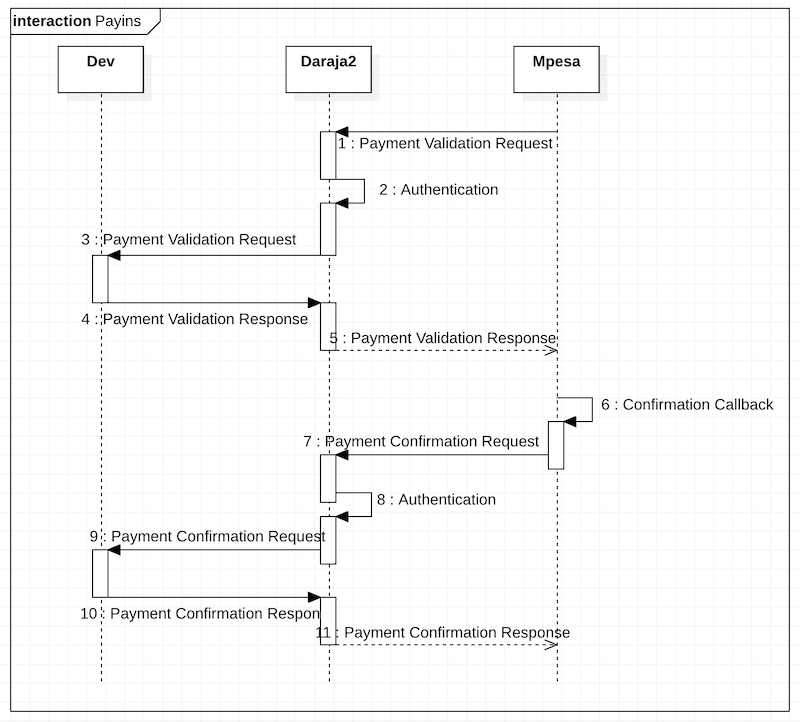
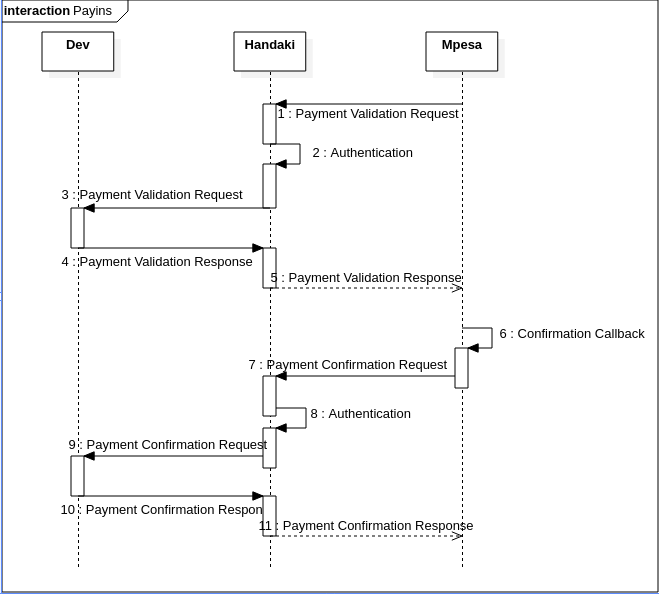
image names. daraja2 ---> handaki (#121)
* update names on images

* update links

Changed region(s): [[0.0, 0.0, 1.0, 1.0]]

diff --git a/_posts/2019-09-03-unveiling-mpesa-daraja-2.md b/_posts/2019-09-03-unveiling-mpesa-daraja-2.md
@@ -96,9 +96,9 @@ _Please note that we only have a proposal for the B2C and C2B APIs. Be on the lo
 **Sample database model for Developer App**
 ![ERD](/assets/images/blog/daraja-2/uniapi.png){: .img-responsive .center}
 
-[Daraja 2.0 API Specification](https://app.swaggerhub.com/apis/zegetech/mpesaUniAPI/1.0)<br>
-[Daraja 2.0 Postman Collection](https://www.getpostman.com/collections/bd902a95eb356c2d4308)<br>
-[Daraja 2.0 Postman Documentation](https://documenter.getpostman.com/view/1238477/SVtbNjVn)
+[Daraja 2.0 API Specification](https://app.swaggerhub.com/apis/zegetech/Handaki/1.0)<br>
+[Daraja 2.0 Postman Collection](https://www.getpostman.com/collections/8bd5ed444fd1da03db77)<br>
+[Daraja 2.0 Postman Documentation](https://documenter.getpostman.com/view/5951719/SWE57eTD?version=latest)
 
 If you think that you've experienced issues with the current [Daraja API](https://developer.safaricom.co.ke/apis) and would like to experience a better solution to MPESA integration feel free to try out the proposed solution and design.
 
